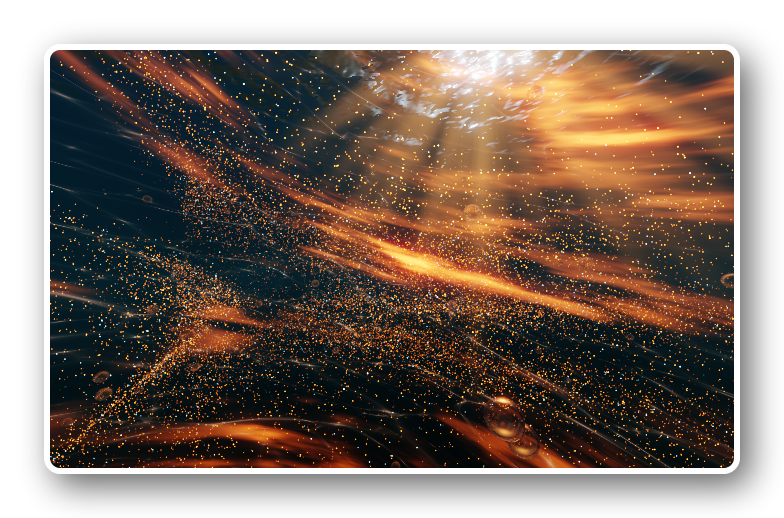
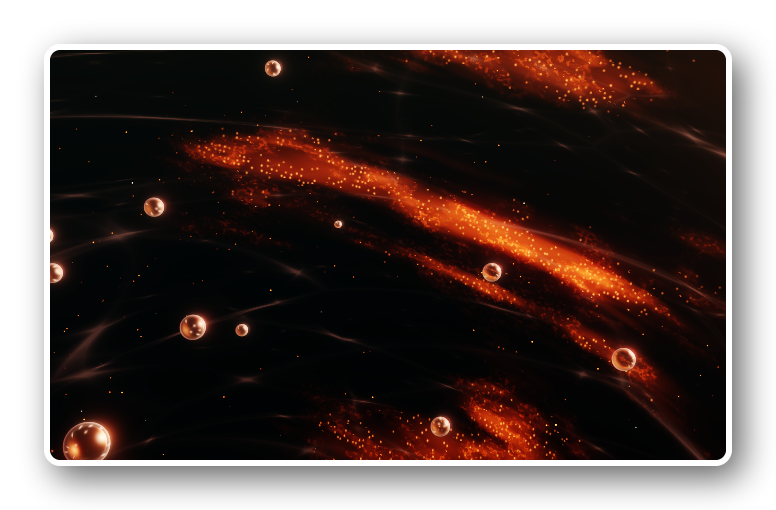
Guided Setup's Bubble, Extruded Bubble and Extruded Spectrum previews are rendered with the operator's chosen presets over a real wallpaper, through new foundry options that pick a preset by its Settings number, render any mode (Bubble's simulation primed) and put a photo behind the card.
Co-authored by an incoming existential crisis.

diff --git a/tools/onboarding_preview_foundry.py b/tools/onboarding_preview_foundry.py
@@ -1061,7 +1061,8 @@ _PREVIEW_ONSETS: Final = {"shockwave_grid": ((0.2, "kick", 3.0, 1.5), (0.55, "sn
                            "oscilloscope": ((0.95, "kick", 2.4, 1.1),)}
 # Modes that prepare a retained history before their first ready frame (Waveform Ribbon fills its
 # path ring, then travels): seconds of fixture passage captured at 30 Hz before the settled captures.
-_PREVIEW_PRIMING_SECONDS: Final = {"waveform_ribbon": 6.0}
+# Bubble steps its simulation on that clock too (as production's tick does), so its field has filled.
+_PREVIEW_PRIMING_SECONDS: Final = {"waveform_ribbon": 6.0, "bubble": 6.0}
 
 
 def preview_audio(count: int = 4096) -> "numpy.ndarray":
@@ -1117,6 +1118,16 @@ class _PreviewOnsets:
         high = 0.42 + 0.24 * math.sin(5.2 * t + 2.0)
         return EnergyBands(bass=bass, mid=mid, high=high, overall=(bass + mid + high) / 3.0)
 
+    # Bubble reads its own energy feed (the same moving fixture passage); no transient bus or event scheduler.
+    def get_bubble_energy_bands(self):
+        return self.get_waveform_ribbon_body_bands()
+
+    def get_transient_energy_bands(self):
+        return None
+
+    def get_event_scheduler(self):
+        return None
+
     # A drawn-audio capture (Oscilloscope) also reads the audio, the level and the spectrum,
     # and takes the stand-in's frame as current live source.
     def get_musical_level(self) -> tuple[float, float]:
@@ -1148,12 +1159,34 @@ _RENDERED_PREVIEW_SIZE: Final = (684, 418)
 _PREVIEW_PRESETS: Final = {"extruded_bubble": "ember_drift"}
 
 
+# ``--visualizer-preset MODE=N``: the preset a run renders, by the number Settings shows (1-based). It takes
+# precedence over ``_PREVIEW_PRESETS`` for that run only; nothing about it is stored.
+_PRESET_NUMBERS: dict[str, int] = {}
+
+
+def parse_preset_numbers(values: list[str] | None) -> dict[str, int]:
+    """``MODE=N`` arguments -> {mode: N}; N is the preset number Settings shows (1-based)."""
+    result: dict[str, int] = {}
+    for value in values or ():
+        mode, separator, number = value.partition("=")
+        if not separator or not mode.strip() or not number.strip().isdigit() or int(number) < 1:
+            raise ValueError(f"--visualizer-preset expects MODE=N with N >= 1, got {value!r}")
+        result[mode.strip()] = int(number)
+    return result
+
+
 def _preview_preset_index(mode: str) -> int:
     """Runtime preset position of the operator's chosen preview look; loud when that preset is gone."""
+    from core.settings import visualizer_presets as vp
+
+    number = _PRESET_NUMBERS.get(mode)
+    if number is not None:
+        if number - 1 >= vp.get_custom_preset_index(mode):
+            raise LookupError(f"{mode} has no preset {number} in the curated catalogue")
+        return number - 1
     wanted = _PREVIEW_PRESETS.get(mode)
     if wanted is None:
         return 0
-    from core.settings import visualizer_presets as vp
 
     found: list[str] = []
     for index in range(vp.get_custom_preset_index(mode)):
@@ -1172,32 +1205,61 @@ _GLOW_ON_BACKDROP: Final = frozenset({"oscilloscope"})
 _PREVIEW_BACKDROP: Final = (24, 26, 34)       # the gradient backdrop's middle shade
 
 
-def _build_rendered_visualizer_previews(scene: "_HiddenQuickScene", art: Path, output: Path) -> None:
+def photo_card_backdrop(photo: Path, size: tuple[int, int]) -> "Image.Image":
+    """A real wallpaper behind the card as the saver shows it: the photo cover-cropped (centred) to the card's
+    content, under the Widget Theme's card surface (the default dark theme the presentation above resolves)."""
+    from PIL import Image, ImageOps
+
+    from ui.widget_theme_spec import DEFAULT_DARK_WIDGET_THEME
+
+    with Image.open(photo) as source:
+        backdrop = ImageOps.fit(source.convert("RGB"), size, Image.Resampling.LANCZOS).convert("RGBA")
+    surface = Image.new("RGBA", size, DEFAULT_DARK_WIDGET_THEME.color("card.background").as_tuple())
+    backdrop.alpha_composite(surface)
+    return backdrop
+
+
+def _build_rendered_visualizer_previews(scene: "_HiddenQuickScene", art: Path, output: Path, *,
+                                        modes: tuple[str, ...] = _RENDERED_VISUALIZER_PREVIEWS,
+                                        photo: Path | None = None) -> None:
     from PIL import Image
 
     from tools import onboarding_sheet_previews
 
     width, height = _RENDERED_PREVIEW_SIZE
-    for mode in _RENDERED_VISUALIZER_PREVIEWS:
+    for mode in modes:
         bars_path = art.parent / f"{mode}_bars.png"
         if mode in _GLOW_ON_BACKDROP:
+            if photo is not None:
+                raise ValueError(f"--photo is not supported for {mode}: its glow renders onto an opaque colour")
             _render_spectrum_preview(bars_path, width=width, height=height, mode=mode, backdrop=_PREVIEW_BACKDROP)
             with Image.open(bars_path) as bars:
                 backdrop = bars.convert("RGBA")
         else:
             _render_spectrum_preview(bars_path, width=width, height=height, mode=mode)
-            backdrop = Image.new("RGBA", (width, height))
-            for row in range(height):
-                shade = int(16 + 20 * row / max(1, height - 1))
-                backdrop.paste((shade, shade + 2, shade + 8, 255), (0, row, width, row + 1))
+            if photo is not None:
+                backdrop = photo_card_backdrop(photo, (width, height))
+            else:
+                backdrop = Image.new("RGBA", (width, height))
+                for row in range(height):
+                    shade = int(16 + 20 * row / max(1, height - 1))
+                    backdrop.paste((shade, shade + 2, shade + 8, 255), (0, row, width, row + 1))
             with Image.open(bars_path) as bars:
                 backdrop.alpha_composite(bars.convert("RGBA"))
+            if photo is not None:
+                # The card's own border band, where the product draws its border over the wallpaper: the drawn
+                # frame stands in for it, so the photo never shows between the frame and the mode's content.
+                from core.settings.default_contract import require_canonical_default
+                border = int(round(float(require_canonical_default("widgets.global.card_border_width_px"))))
+                backdrop = backdrop.crop((border, border, width - border, height - border))
         framed = onboarding_sheet_previews._framed(backdrop, (255, 255, 255))
         save_png_stable(onboarding_sheet_previews._with_shadow(framed), output / f"visualizer_{mode}.png")
 
 
 def _build_widget_previews(output: Path, scratch: Path, *,
-                           families: list[str] | None = None) -> list[dict[str, object]]:
+                           families: list[str] | None = None,
+                           visualizer_modes: tuple[str, ...] | None = None,
+                           photo: Path | None = None) -> list[dict[str, object]]:
     from PySide6.QtGui import QGuiApplication
 
     app = QGuiApplication.instance() or QGuiApplication(["onboarding-preview-foundry"])
@@ -1219,7 +1281,8 @@ def _build_widget_previews(output: Path, scratch: Path, *,
             width, height = _frame_preview(image, output / name)
             rows.append({"family_id": family_id, "path": name, "size": [width, height]})
         if not families or "visualizers" in families:
-            _build_rendered_visualizer_previews(scene, art, output)
+            _build_rendered_visualizer_previews(scene, art, output, photo=photo,
+                                                modes=visualizer_modes or _RENDERED_VISUALIZER_PREVIEWS)
     finally:
         scene.close()
     return rows
@@ -1376,18 +1439,23 @@ def _build_spectrum_preview_snapshot(*, width: int, height: int, mode: str = "sp
     # tick: step it the same way before each capture.
     # A history-preparing mode is primed through the same production capture, then its settled
     # captures follow on the same clock.
+    advance = None
+    if mode == "devcurve":
+        from widgets.spotify_visualizer.tick_pipeline import dispatch_devcurve_field as advance
+    elif mode == "bubble":
+        from widgets.spotify_visualizer.tick_pipeline import dispatch_bubble_simulation as advance
     base = _PREVIEW_PRIMING_SECONDS.get(mode, 0.0)
     if base:
         engine = state._engine if isinstance(getattr(state, "_engine", None), _PreviewOnsets) else _PreviewOnsets()
         state._engine = engine
         for step in range(round(base * 30)):
             engine.now = step / 30.0
+            if advance is not None:
+                advance(state, engine.now)
             capture_visualizer_logical_frame(state, now_ts=engine.now, changed=True, mode_reveal_ready=True)
         engine.now = base + 1.0
-    advance = None
-    if mode == "devcurve":
-        from widgets.spotify_visualizer.tick_pipeline import dispatch_devcurve_field as advance
-        advance(state, 1.0)
+    if advance is not None:
+        advance(state, base + 1.0)
     first = capture_visualizer_logical_frame(
         state,
         now_ts=base + 1.0,
@@ -1399,7 +1467,7 @@ def _build_spectrum_preview_snapshot(*, width: int, height: int, mode: str = "sp
     state._has_pushed_first_frame = True
     state._display_bars = list(current_bars)
     if advance is not None:
-        advance(state, 1.12)
+        advance(state, base + 1.12)
     if base:
         state._engine.now = base + 1.12
     logical = capture_visualizer_logical_frame(
@@ -1731,6 +1799,14 @@ def main(argv: list[str] | None = None) -> int:
     parser.add_argument("--widgets-only", action="store_true")
     parser.add_argument("--family", action="append", help="limit --widgets-only to these families")
     parser.add_argument("--assemble-manifest", action="store_true")
+    parser.add_argument("--visualizer-mode", action="append", metavar="MODE",
+                        help="with --widgets-only: render these Visualizer modes' previews (any registered mode) "
+                             "instead of the default rendered set")
+    parser.add_argument("--visualizer-preset", action="append", metavar="MODE=N",
+                        help="with --widgets-only: render MODE with the preset numbered N in Settings (1-based)")
+    parser.add_argument("--photo", type=Path,
+                        help="with --widgets-only: a real wallpaper behind the Visualizer cards (cover-cropped, "
+                             "under the card surface) instead of the drawn gradient")
     parser.add_argument("--audit-log", type=Path, help=argparse.SUPPRESS)
     parser.add_argument(
         "--guard-probe",
@@ -1738,6 +1814,17 @@ def main(argv: list[str] | None = None) -> int:
         help=argparse.SUPPRESS,
     )
     args = parser.parse_args(argv)
+    _PRESET_NUMBERS.update(parse_preset_numbers(args.visualizer_preset))
+    if (args.visualizer_mode or args.visualizer_preset or args.photo) and not args.widgets_only:
+        parser.error("--visualizer-mode, --visualizer-preset and --photo apply to --widgets-only runs")
+    if args.photo is not None and not args.photo.is_file():
+        parser.error(f"--photo is not a file: {args.photo}")
+    if args.visualizer_mode:
+        from core.settings.visualizer_mode_registry import iter_visualizer_mode_descriptors
+        known = {descriptor.mode_id for descriptor in iter_visualizer_mode_descriptors()}
+        unknown = [mode for mode in args.visualizer_mode if mode not in known]
+        if unknown:
+            parser.error(f"unknown Visualizer mode(s): {', '.join(unknown)}")
     if args.assemble_manifest:
         print(json.dumps(assemble_manifest(args.output.resolve()), indent=2))
         return 0
@@ -1773,7 +1860,10 @@ def main(argv: list[str] | None = None) -> int:
             output = args.output.resolve()
             output.mkdir(parents=True, exist_ok=True)
             with tempfile.TemporaryDirectory(prefix="srpss-onboarding-preview-") as temporary:
-                widgets = _build_widget_previews(output, Path(temporary), families=args.family)
+                widgets = _build_widget_previews(
+                    output, Path(temporary), families=args.family,
+                    visualizer_modes=tuple(args.visualizer_mode) if args.visualizer_mode else None,
+                    photo=args.photo.resolve() if args.photo else None)
             if args.widgets_only:
                 print(json.dumps({"widgets": widgets}, indent=2))
         _raise_if_guard_attempts(audit_log)

diff --git a/tests/test_onboarding_preview_assets.py b/tests/test_onboarding_preview_assets.py
@@ -252,3 +252,41 @@ def test_regeneration_keeps_an_asset_whose_pixels_only_drift(tmp_path: Path) -> 
     changed.reshape(-1, 3)[:allowed + 1] = 140                  # one speckle more than allowed
     assert save_png_stable(Image.fromarray(changed), path)
     assert save_png_stable(Image.fromarray(numpy.zeros((100, 101, 3), dtype=numpy.uint8)), path)  # resized
+
+
+def test_foundry_selects_a_preview_preset_by_its_settings_number(monkeypatch) -> None:
+    """``--visualizer-preset MODE=N``: N is the 1-based number Settings shows; past the catalogue is loud."""
+    import pytest
+
+    from core.settings import visualizer_presets as vp
+    from tools import onboarding_preview_foundry as foundry
+
+    assert foundry.parse_preset_numbers(["spectrum=3", " bubble = 1 "]) == {"spectrum": 3, "bubble": 1}
+    for bad in ("spectrum", "spectrum=0", "=2", "spectrum=x"):
+        with pytest.raises(ValueError):
+            foundry.parse_preset_numbers([bad])
+    mode = "spectrum"
+    last = vp.get_custom_preset_index(mode)  # the trailing Custom position: one past the authored presets
+    monkeypatch.setattr(foundry, "_PRESET_NUMBERS", {mode: last})
+    assert foundry._preview_preset_index(mode) == last - 1
+    monkeypatch.setattr(foundry, "_PRESET_NUMBERS", {mode: last + 1})
+    with pytest.raises(LookupError):
+        foundry._preview_preset_index(mode)
+
+
+def test_foundry_photo_backdrop_is_the_photo_under_the_card_surface(tmp_path) -> None:
+    """``--photo``: the wallpaper cover-cropped to the card, under the theme's card surface, fully opaque."""
+    from PIL import Image
+
+    from tools.onboarding_preview_foundry import photo_card_backdrop
+    from ui.widget_theme_spec import DEFAULT_DARK_WIDGET_THEME
+
+    photo = tmp_path / "wall.png"
+    Image.new("RGB", (400, 100), (250, 250, 250)).save(photo)  # wider than the card: cropped, never stretched
+    backdrop = photo_card_backdrop(photo, (120, 80))
+    assert backdrop.size == (120, 80)
+    red, green, blue, alpha = backdrop.getpixel((60, 40))
+    assert alpha == 255
+    surface = DEFAULT_DARK_WIDGET_THEME.color("card.background").as_tuple()
+    expected = round(250 + (surface[0] - 250) * surface[3] / 255)
+    assert abs(red - expected) <= 1

diff --git a/Docs/Reference/Guided_Setup.md b/Docs/Reference/Guided_Setup.md
@@ -191,7 +191,13 @@ run by onboarding.
   through the same capture on a fixture passage (`_PREVIEW_PRIMING_SECONDS`). Rendering only the Visualizer previews:
   `--widgets-only --family visualizers`, then `tools/onboarding_sheet_previews.py` (restores the sheet's
   `widget_visualizers.png` and assembles the manifest), then `tools/regen_qrc.py` after adding any new file to
-  `ui/resources/onboarding_assets.qrc`. The page shows a narrow mode list (sized
+  `ui/resources/onboarding_assets.qrc`. One run's choices, never stored: `--visualizer-mode MODE` renders any
+  mode's preview (Bubble steps its simulation through the same priming), `--visualizer-preset MODE=N` picks the
+  preset numbered N in Settings, and `--photo PATH` puts a real wallpaper behind the card (cover-cropped under the
+  card surface; the card's border band becomes the drawn frame). Copy only the PNGs you mean to replace and run
+  `--assemble-manifest`; a full rebuild or `onboarding_sheet_previews.py` would restore the sheet's and default
+  looks. The 12 Nov 2026 Bubble, Extruded Bubble and Extruded Spectrum previews came from such a run (operator's
+  presets, a PERSONALSET wallpaper; plan 1D.1). The page shows a narrow mode list (sized
   to its longest name, never truncated) with the selected mode's preview beside it.
 - Widget previews render at 2x device pixels (the sheet is a 2x screenshot and is cut at native size). Settings
   shows them at no more than one source pixel per physical pixel (`ImagePanel(..., upscale=False)`), so small cards
